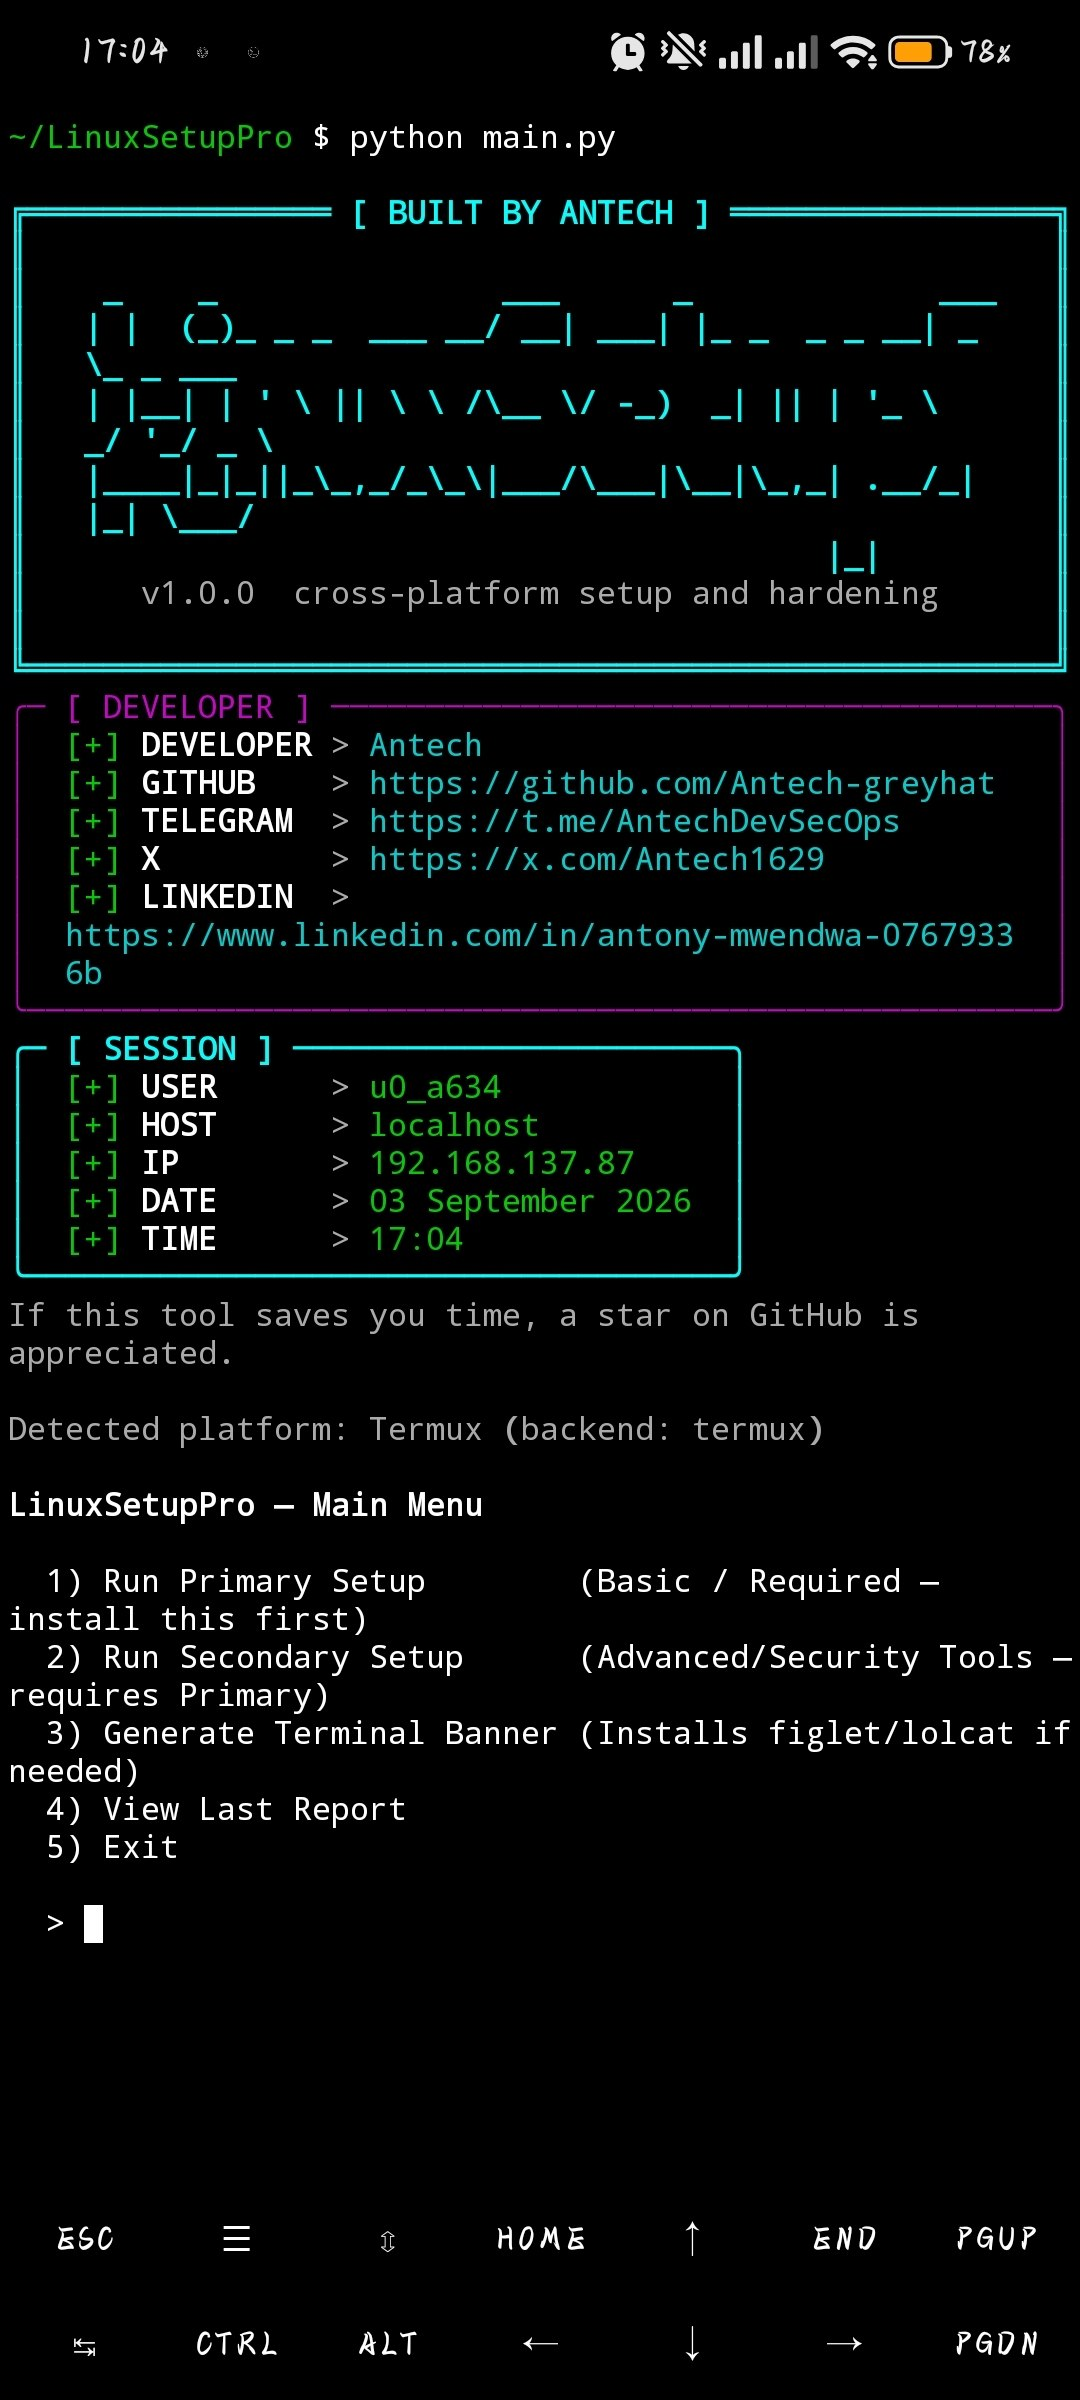
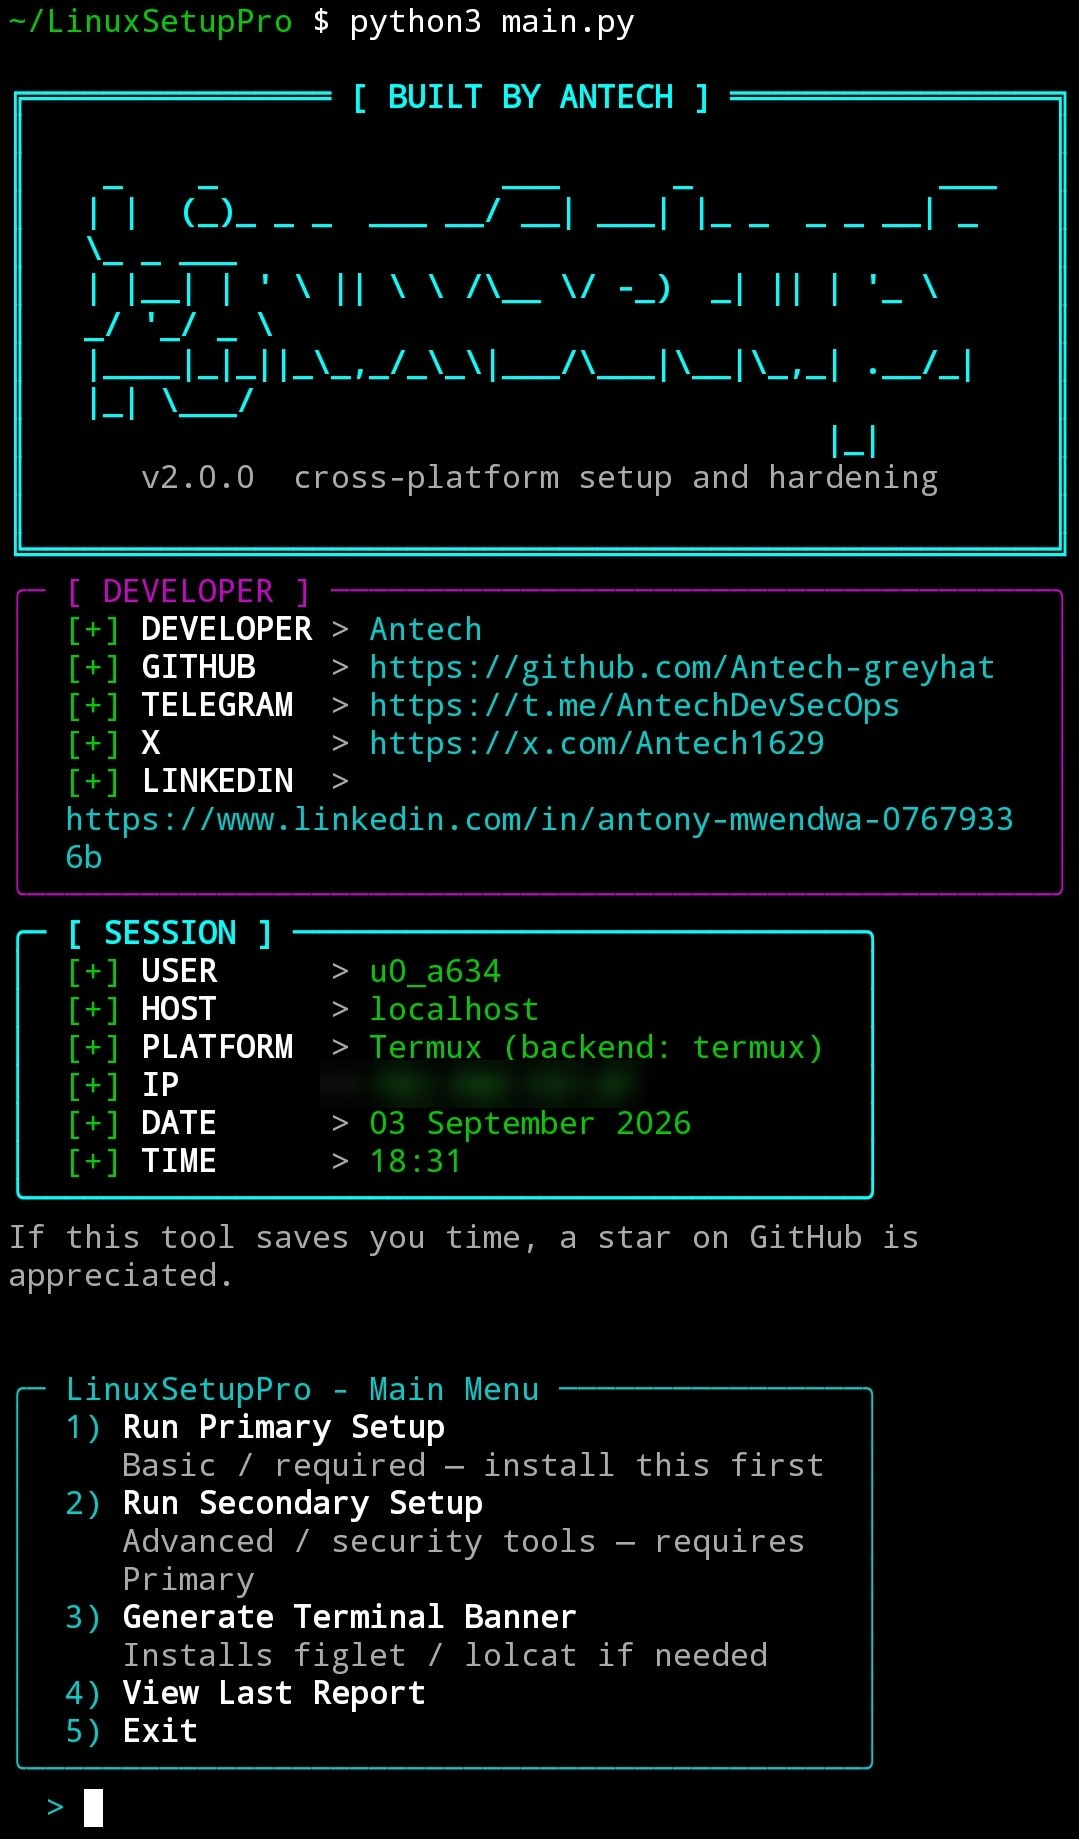
ocs: refresh screenshots for the restyled menu system
Swap the old main-menu screenshot for shots of the new fully panelled
menus: the main menu (startup, session, and menu in matching panels)
and the styled prompts plus nested View Last Report submenu. Redact the
local IP in the session panel. Rework the Screenshots section into a
2x2 gallery so the new menus lead, followed by the install run and the
completion banner.

diff --git a/README.md b/README.md
@@ -45,19 +45,25 @@ LinuxSetupPro is a cross-platform setup and hardening tool for Termux, Debian/Ub
 
 ## Screenshots
 
-A live run on Termux, from the interactive menu through a finished setup.
+A live run on Termux — from the fully panelled interactive menu through a finished setup.
 
 <table>
   <tr>
-    <td align="center" width="33%" valign="top">
+    <td align="center" width="50%" valign="top">
       <img src="./images/termux-menu.jpg" alt="Interactive main menu on Termux" /><br />
-      <sub><b>Interactive main menu</b><br />Nothing installs until you choose it.</sub>
+      <sub><b>Interactive main menu</b><br />Startup, session, and menu share one panel style. Nothing installs until you choose it.</sub>
     </td>
-    <td align="center" width="33%" valign="top">
+    <td align="center" width="50%" valign="top">
+      <img src="./images/termux-report-menu.jpg" alt="Styled prompts and the View Last Report submenu on Termux" /><br />
+      <sub><b>Consistent panels everywhere</b><br />Every prompt and nested submenu matches the banner styling.</sub>
+    </td>
+  </tr>
+  <tr>
+    <td align="center" width="50%" valign="top">
       <img src="./images/termux-startup.jpg" alt="Startup banner and Essentials install on Termux" /><br />
       <sub><b>Primary Setup</b><br />Startup banner, then per-package progress.</sub>
     </td>
-    <td align="center" width="33%" valign="top">
+    <td align="center" width="50%" valign="top">
       <img src="./images/termux-progress.jpg" alt="Install progress across categories on Termux" /><br />
       <sub><b>Honest reporting</b><br />Every package's status, including failures.</sub>
     </td>
